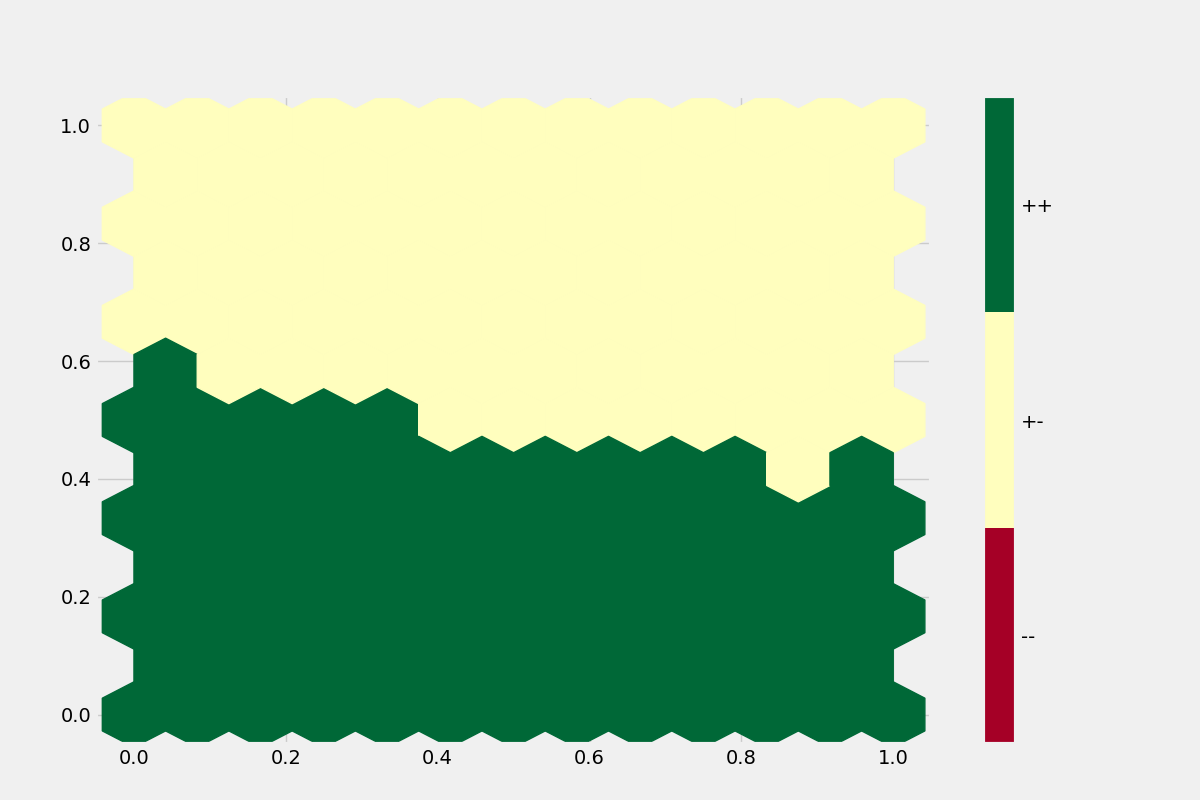
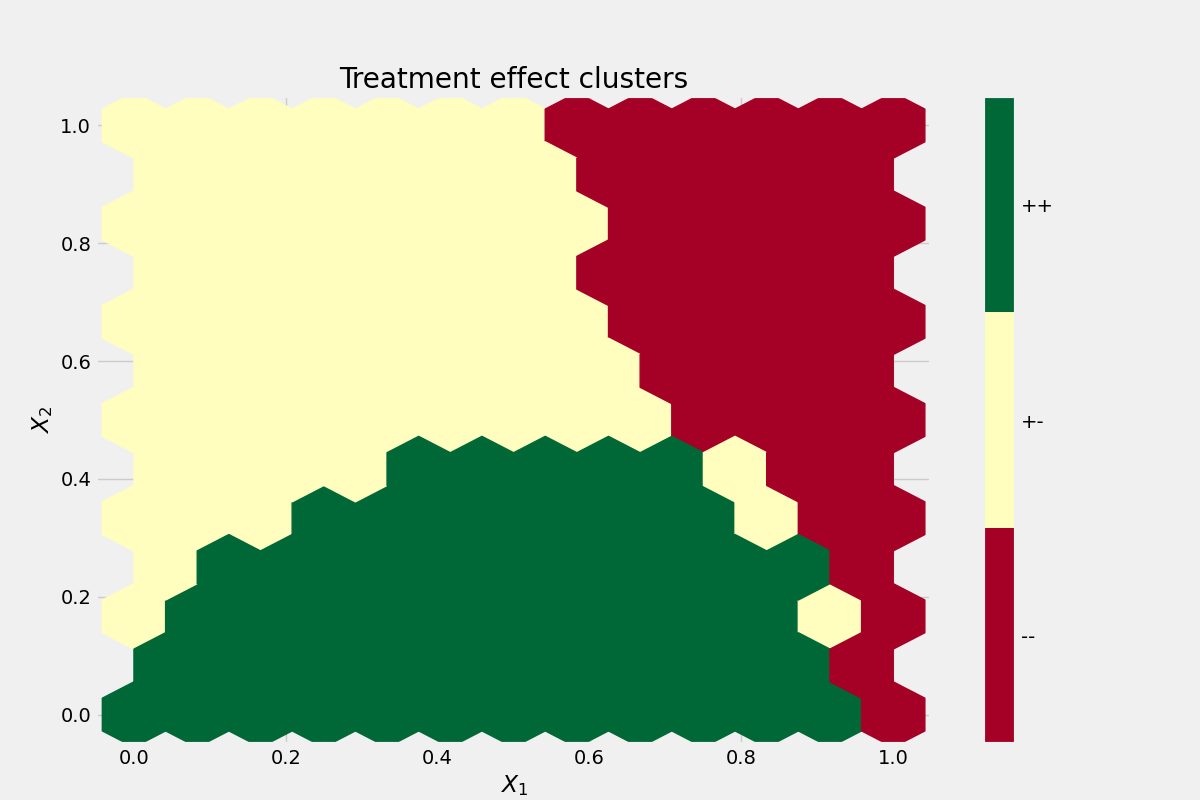
Change dataset plot effects scatter to hexbin viz

Changed region(s): [[0.2775, 0.0625, 0.7708, 0.9375], [0.0617, 0.4062, 0.37, 0.8125], [0.4008, 0.9688, 0.4317, 1.0]]

diff --git a/data/dataset.py b/data/dataset.py
@@ -129,17 +129,9 @@ class Dataset:
                     im = axs[i, j].hexbin(x=self.X[:, 0], 
                                         y=self.X[:, 1], 
                                         C=self.tao[:, j], 
-                                        gridsize=12, 
-                                        # cmap='coolwarm',
+                                        gridsize=12,
                                         cmap=self.cmap,
-                                        # vmin=self.tao[:, j].min(), 
-                                        # vmax=self.tao[:, j].max(), 
-                                        # clim=(self.tao[:, j].min(), self.tao[:, j].max())
                     )
-                    # im = axs[i, j].tricontourf(self.X[:, 0], 
-                    #                         self.X[:, 1], 
-                    #                         self.Y[:, j+1]-self.Y[:, j]
-                    # )
                     axs[i, j].set_xlabel(r'$X_1$')
                     axs[i, j].set_ylabel(r'$X_2$')
                     fig.colorbar(im, ax=axs[i, j], label=fr'$\tau_{j}$')
@@ -147,16 +139,24 @@ class Dataset:
                     hex_taos.append(hex_values)
                     offsets = im.get_offsets()
                 else:
-                    # sns.regplot(x=self.X[:, i], y=self.Y[:, j], ax=axs[i, j], scatter=False, label=f'Y_{j}_0')
-                    # sns.regplot(x=self.X[:, i], y=self.Y[:, j+1], ax=axs[i, j], scatter=False, label=f'Y_{j}_1')
-                    axs[i, j].scatter(self.X[:, i], self.Y[:, 2*j], alpha=alpha, label=fr'$Y_{j}^0$')
-                    axs[i, j].scatter(self.X[:, i], self.Y[:, 2*j+1], alpha=alpha, label=fr'$Y_{j}^1$')
-                    axs[i, j].set_xlabel(fr'$X_{i+1}$')
-                    axs[i, j].set_ylabel(fr'$Y_{j}$')
-                    axs[i, j].legend()
+                    # axs[i, j].scatter(self.X[:, i], self.Y[:, 2*j], alpha=alpha, label=fr'$Y_{j}^0$')
+                    # axs[i, j].scatter(self.X[:, i], self.Y[:, 2*j+1], alpha=alpha, label=fr'$Y_{j}^1$')
+                    # axs[i, j].set_xlabel(fr'$X_{i+1}$')
+                    # axs[i, j].set_ylabel(fr'$Y_{j}$')
+                    # axs[i, j].legend(loc='upper left')
+
+                    im = axs[i, j].hexbin(x=self.X[:, 0], 
+                                            y=self.X[:, 1], 
+                                            C=self.Y[:, 2*j+i], 
+                                            gridsize=12, 
+                                            cmap=self.cmap,
+                    )
+
+                    axs[i, j].set_xlabel(r'$X_1$')
+                    axs[i, j].set_ylabel(r'$X_2$')
+                    fig.colorbar(im, ax=axs[i, j], label=fr'$Y_{j}^{i}$')
 
         plt.tight_layout()
-
         plt.savefig(f'{save_filename}.png')
     
         # scatter clusters
@@ -166,7 +166,6 @@ class Dataset:
         plt.scatter(self.X[:, 0][self.nn_mask], self.X[:, 1][self.nn_mask], s=45, alpha=0.8, c='r', label='--')
         plt.xlabel(r'$X_1$')
         plt.ylabel(r'$X_2$')
-        plt.legend()
         plt.savefig(f'{save_filename}_clusters.png')
 
         # hexbin clusters
@@ -182,6 +181,9 @@ class Dataset:
         )
         cbar = plt.colorbar(ticks=np.arange(1, 4, 1))
         cbar.ax.set_yticklabels(['--', '+-', '++'])
+        plt.xlabel(r'$X_1$')
+        plt.ylabel(r'$X_2$')
+        plt.title('Treatment effect clusters')
         plt.savefig(f'{save_filename}_hexclusters.png')
 
 

diff --git a/tradeoffs/highly_non_linear.py b/tradeoffs/highly_non_linear.py
@@ -10,26 +10,48 @@ class HighlyNonLinearTradeoff(Tradeoff):
 
     def get_main_effect(self, X):
         # create random gaussians
-        n_gaussians = 4
+        n_gaussians = 3
 
         # pick mean points
-        centers = np.random.uniform(0.1, 0.9, size=(n_gaussians, X.shape[1])).round(1)
-        stds = np.random.uniform(0.1, 0.15, n_gaussians).round(2)
-        orientation = np.random.choice([1, -1], size=n_gaussians)
+        # centers = np.random.uniform(0.1, 0.9, size=(n_gaussians, X.shape[1])).round(1)
+        centers = np.array([[0.2, 0.7], 
+                            [0.5, 0.2], 
+                            [0.8, 0.6]])
+        # stds = np.random.uniform(0.1, 0.15, n_gaussians).round(2)
+        stds = np.array([0.1, 0.05, 0.15])
+        # orientation = np.random.choice([1, -1], size=n_gaussians)
+        orientation = [1, 1, -1]
         mu = np.zeros(X.shape[0])
         for i in range(n_gaussians):
-            rv = multivariate_normal(mean=centers[i], cov=np.ones(len(centers[i]))*stds[i])
+            rv = multivariate_normal(mean=centers[i], cov=np.eye(len(centers[i]))*stds[i])
             mu += rv.pdf(X) * orientation[i]
         
-        mu_0_0 =  mu
-        mu_0_1 = 2 * mu
+        mu_0_0 = -mu
+        mu_0_1 = mu
         Y_0_0 = (mu_0_0 + np.random.normal(0, 0.2, X.shape[0])).reshape(-1, 1)
         Y_0_1 = (mu_0_1 + np.random.normal(0, 0.2, X.shape[0])).reshape(-1, 1)
 
         return np.concatenate([Y_0_0, Y_0_1], axis=1)
 
     def get_tradeoff_effect(self, X):
-        return self.get_main_effect(X)
+        # return self.get_main_effect(X)
+        n_gaussians = 3
+        centers = np.array([[0.2, 0.7], 
+                            [0.5, 0.2], 
+                            [0.8, 0.6]])
+        stds = np.array([0.1, 0.05, 0.15])
+        orientation = [-1, 1, -1]
+        mu = np.zeros(X.shape[0])
+        for i in range(n_gaussians):
+            rv = multivariate_normal(mean=centers[i], cov=np.eye(len(centers[i]))*stds[i])
+            mu += rv.pdf(X) * orientation[i]
+        
+        mu_0_0 = -mu
+        mu_0_1 = mu
+        Y_0_0 = (mu_0_0 + np.random.normal(0, 0.2, X.shape[0])).reshape(-1, 1)
+        Y_0_1 = (mu_0_1 + np.random.normal(0, 0.2, X.shape[0])).reshape(-1, 1)
+
+        return np.concatenate([Y_0_0, Y_0_1], axis=1)
 
     def create_Y(self, X, n_responses):
         # return Y matrix Yij 
